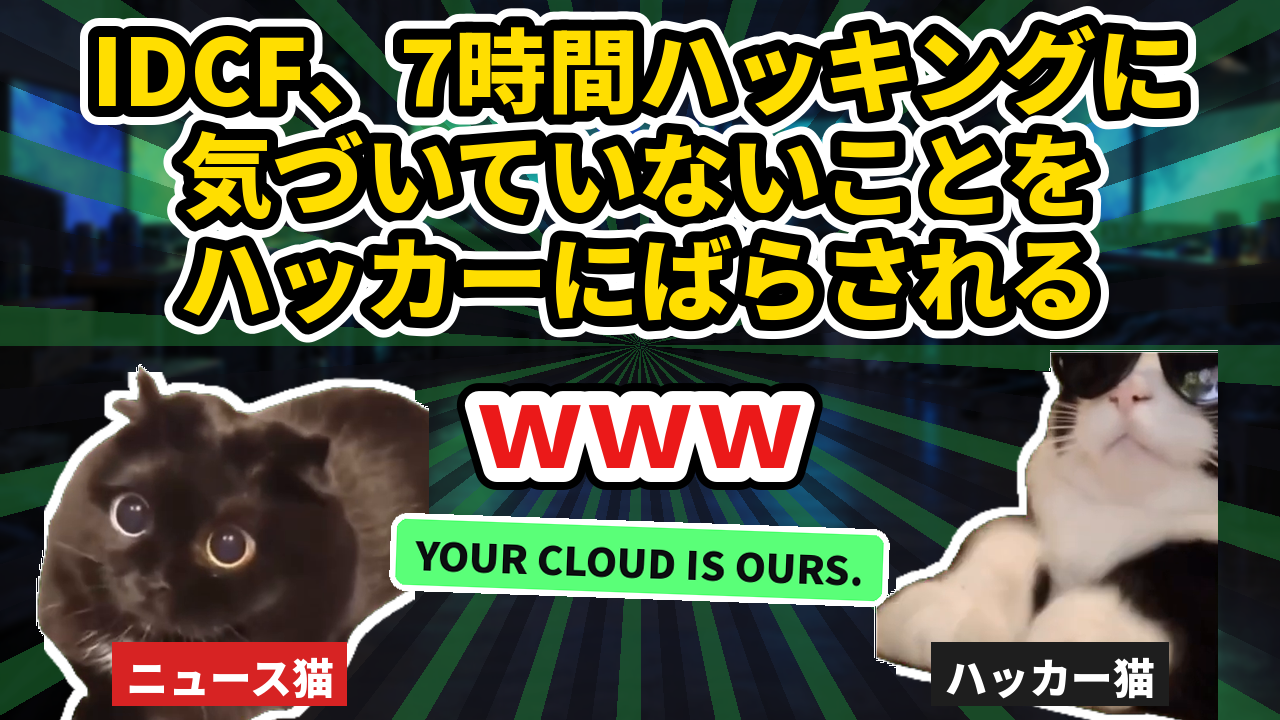
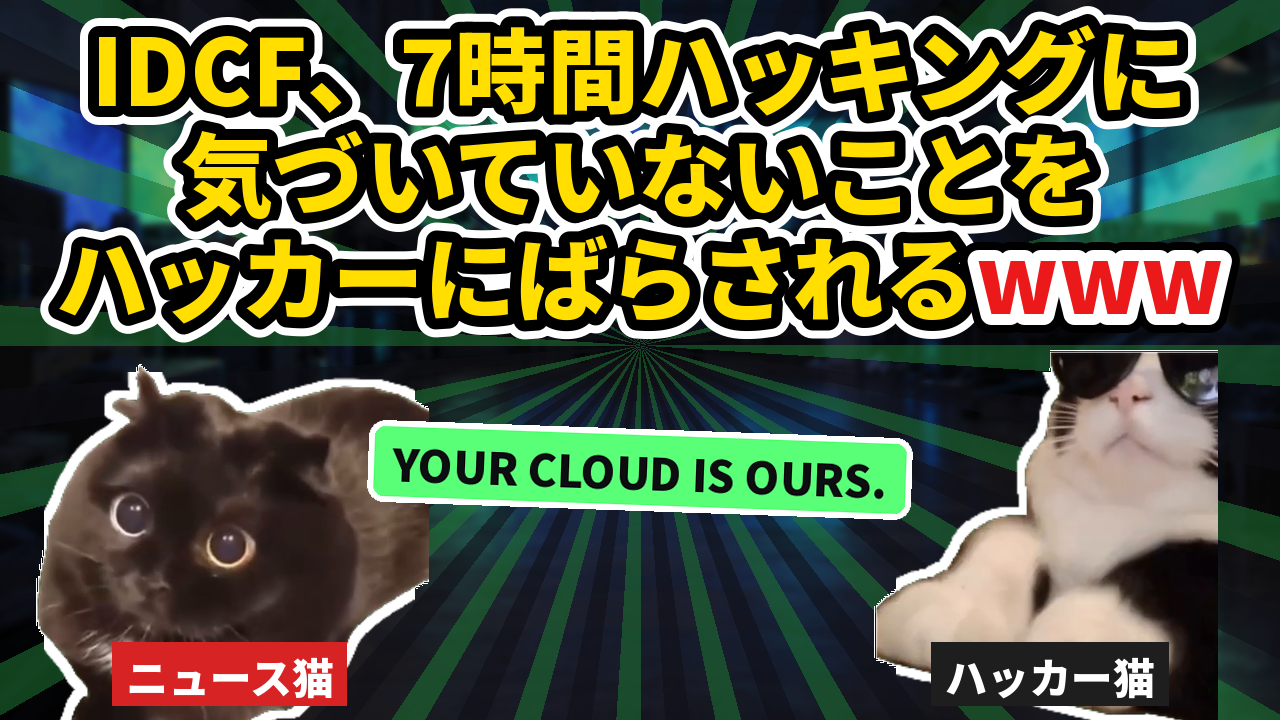
10本目サムネ：「ばらされるwww」を1行に
Claude-Session: https://claude.ai/code/session_011g9CsrfFD5YswfNSvNDW39

Changed region(s): [[0.0312, 0.3056, 0.9688, 0.4889], [0.2812, 0.5194, 0.7188, 0.8556]]

diff --git a/catmeme/make_thumb_10.py b/catmeme/make_thumb_10.py
@@ -27,12 +27,11 @@ THUMB_C = dict(THUMB, top="IDCF、7時間ハッキングに気づいていない
 # 10/11 ユーザー指定：赤帯なし・文言を全部入れる（少し小さくてよい）・ｗｗｗあり・「ハッカーの主張」の札はなし（概要欄でカバー）
 BLACK = (0, 0, 0)
 THUMB_E = dict(THUMB, top="", big="", sub="",
-               stickers=(("YOUR CLOUD IS OURS.", 640, 560, 40, (90, 255, 120), (12, 14, 16), -2),),
+               stickers=(("YOUR CLOUD IS OURS.", 640, 470, 44, (90, 255, 120), (12, 14, 16), -2),),
                cat_h=380,   # 猫の顔に文字が被らないよう、猫を小さめにして文字を上に寄せる（10/11）
                lines=(("IDCF、7時間ハッキングに", 66, 92, YELLOW, BLACK, WHITE),
                       ("気づいていないことを", 170, 92, YELLOW, BLACK, WHITE),
-                      ("ハッカーにばらされる", 274, 92, YELLOW, BLACK, WHITE),
-                      ("ｗｗｗ", 420, 110, RED, WHITE, BLACK)))
+                      ([("ハッカーにばらされる", YELLOW, BLACK, WHITE), ("www", RED, WHITE, BLACK)], 274, 92, None, None, None)))
 # 同じ文言から「ｗｗｗ」だけ外した案（被害を受けた会社を笑う形にしない）
 THUMB_D = dict(THUMB_C, sub="", big="ハッカーにばらされる")
 

diff --git a/catmeme/make_thumb_03.py b/catmeme/make_thumb_03.py
@@ -68,7 +68,18 @@ def make(out, left, right, top, big, sub, badge="年60万円・最大600万円",
         fit_text(d, (640, 400), sub, 760, 120, RED, WHITE, double=BLACK)
     # 長い文言を何行かに分けて大きく（text, y, 文字の大きさ, 色, 縁の色, 外側の縁の色）
     for text, y, size, fill, stroke, double in lines:
-        fit_text(d, (640, y), text, 1230, size, fill, stroke, double=double)
+        if isinstance(text, str):
+            fit_text(d, (640, y), text, 1230, size, fill, stroke, double=double)
+            continue
+        # 色ちがいの文字を1行に並べる：text = [(文字, 色, 縁の色, 外側の縁の色), ...]
+        f = P.font("black", size)
+        while sum(d.textlength(t[0], font=f) for t in text) > 1230 and size > 30:
+            size -= 4
+            f = P.font("black", size)
+        x = 640 - sum(d.textlength(t[0], font=f) for t in text) / 2
+        for t, fl, st, db in text:
+            fit_text(d, (x, y), t, 9999, size, fl, st, double=db, anchor="lm")
+            x += d.textlength(t, font=f)
     # 下の真ん中の札（数字）
     if not badge:
         badge = None

diff --git a/catmeme/scripts/10_idcf_youtube.md b/catmeme/scripts/10_idcf_youtube.md
@@ -6,7 +6,7 @@
 3. 【猫ミーム】クラウドに預けたら安心じゃないの？IDCFランサムウェア攻撃をゆるっと整理 #猫ミーム
 
 ## サムネ
-- thumbs/10_idcf_e.png（release/10_idcf.png と同じ）：「IDCF、7時間ハッキングに気づいていないことをハッカーにばらされるｗｗｗ」＋札「YOUR CLOUD IS OURS.」。「ハッカーの主張」は概要欄の「ご注意」でカバー（ユーザー指定 10/11）
+- thumbs/10_idcf_e.png（release/10_idcf.png と同じ）：「IDCF、7時間ハッキングに気づいていないことをハッカーにばらされるwww」（wwwは同じ行に赤で）＋札「YOUR CLOUD IS OURS.」。「ハッカーの主張」は概要欄の「ご注意」でカバー（ユーザー指定 10/11）
 
 ## 説明文
 
